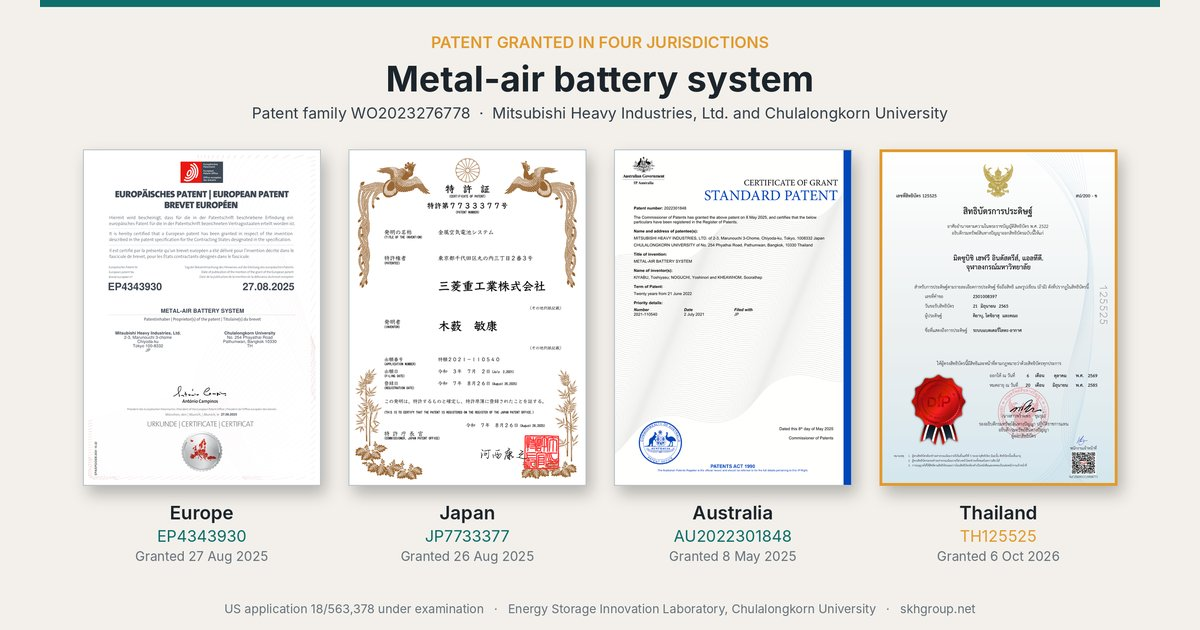
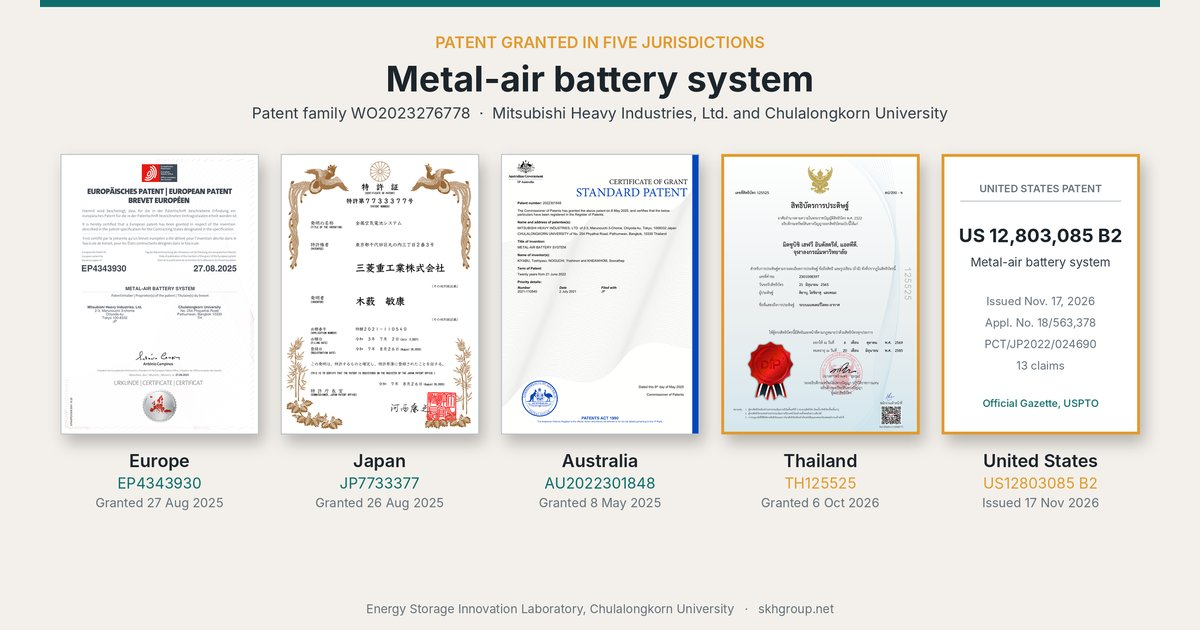
Patents: add US12803085

Changed region(s): [[0.0617, 0.2111, 0.9558, 0.9048], [0.185, 0.9349, 0.8017, 0.9952], [0.3392, 0.0302, 0.6475, 0.0905]]

diff --git a/index.html b/index.html
@@ -672,7 +672,7 @@ layout: null
         <thead><tr><th style="width:280px">Family</th><th>Title</th></tr></thead>
         <tbody>
           <tr><td class="yr">WO2021133263A1</td><td>Rechargeable aqueous zinc-iodine cell</td></tr>
-          <tr><td class="yr">WO2023276778A1<br>EP4343930 · AU2022301848 · JP7733377 · TH125525</td><td>Metal-air battery system</td></tr>
+          <tr><td class="yr">WO2023276778A1<br>EP4343930 · AU2022301848 · JP7733377 · TH125525 · US12803085</td><td>Metal-air battery system</td></tr>
         </tbody>
       </table>
 

diff --git a/_posts/2026-11-18-metal-air-battery-patent-thailand.md b/_posts/2026-11-18-metal-air-battery-patent-thailand.md
@@ -1,23 +1,24 @@
 ---
-title: "Metal-air battery system patent granted in Thailand"
+title: "Metal-air battery system patent granted in Thailand and the United States"
 date: 2026-11-18 15:30:00 +0700
-description: "Thai Patent No. 125525 for the metal-air battery system, co-owned by Mitsubishi Heavy Industries and Chulalongkorn University, was granted on 6 October 2026. The patent family is now granted in Europe, Japan, Australia and Thailand."
+description: "Thai Patent No. 125525 for the metal-air battery system, co-owned by Mitsubishi Heavy Industries and Chulalongkorn University, was granted on 6 October 2026. US Patent No. 12,803,085 B2 followed on 17 November 2026. The patent family is now granted in Europe, Japan, Australia, Thailand and the United States."
 tag: Recognition
 kind: news
 image: /img/news/patents-metal-air-2026-og.jpg
 ---
 
-Thai Patent No. **125525**, *Metal-air battery system*, was granted by the Department of Intellectual Property on **6 October 2026**. The patent is co-owned by **Mitsubishi Heavy Industries, Ltd.** and **Chulalongkorn University** and comes from our zinc-air battery collaboration with MHI.
+Thai Patent No. **125525**, *Metal-air battery system*, was granted by the Department of Intellectual Property on **6 October 2026**. The patent is co-owned by **Mitsubishi Heavy Industries, Ltd.** and **Chulalongkorn University** and comes from our zinc-air battery collaboration with MHI. The corresponding **US Patent No. 12,803,085 B2** was issued on **17 November 2026**.
 
-![Patent certificates for the metal-air battery system: EP4343930 (Europe), JP7733377 (Japan), AU2022301848 (Australia) and TH125525 (Thailand)]({{ site.baseurl }}/img/news/patents-metal-air-2026.webp)
+![Patent certificates for the metal-air battery system: EP4343930 (Europe), JP7733377 (Japan), AU2022301848 (Australia), TH125525 (Thailand) and US12803085 B2 (United States)]({{ site.baseurl }}/img/news/patents-metal-air-2026.webp)
 
 The cell uses three concentric tubular electrodes, with separate electrodes for charging and discharging, and a circulating electrolyte for energy storage. Placing the electrodes that need lower resistance on the larger outer rings reduces their current density and makes charging and discharging more efficient.
 
-The patent family (WO2023276778) is now granted in four jurisdictions:
+The patent family (WO2023276778) is now granted in five jurisdictions:
 
 - Europe: EP4343930, granted 27 August 2025
 - Japan: JP7733377, granted 26 August 2025
 - Australia: AU2022301848, granted 8 May 2025
 - Thailand: TH125525, granted 6 October 2026
+- United States: US12803085 B2, issued 17 November 2026
 
-The US application (18/563,378) is under examination. Our thanks go to the MHI team and the members of the Energy Storage Innovation Laboratory.
+Our thanks go to the MHI team and the members of the Energy Storage Innovation Laboratory.
